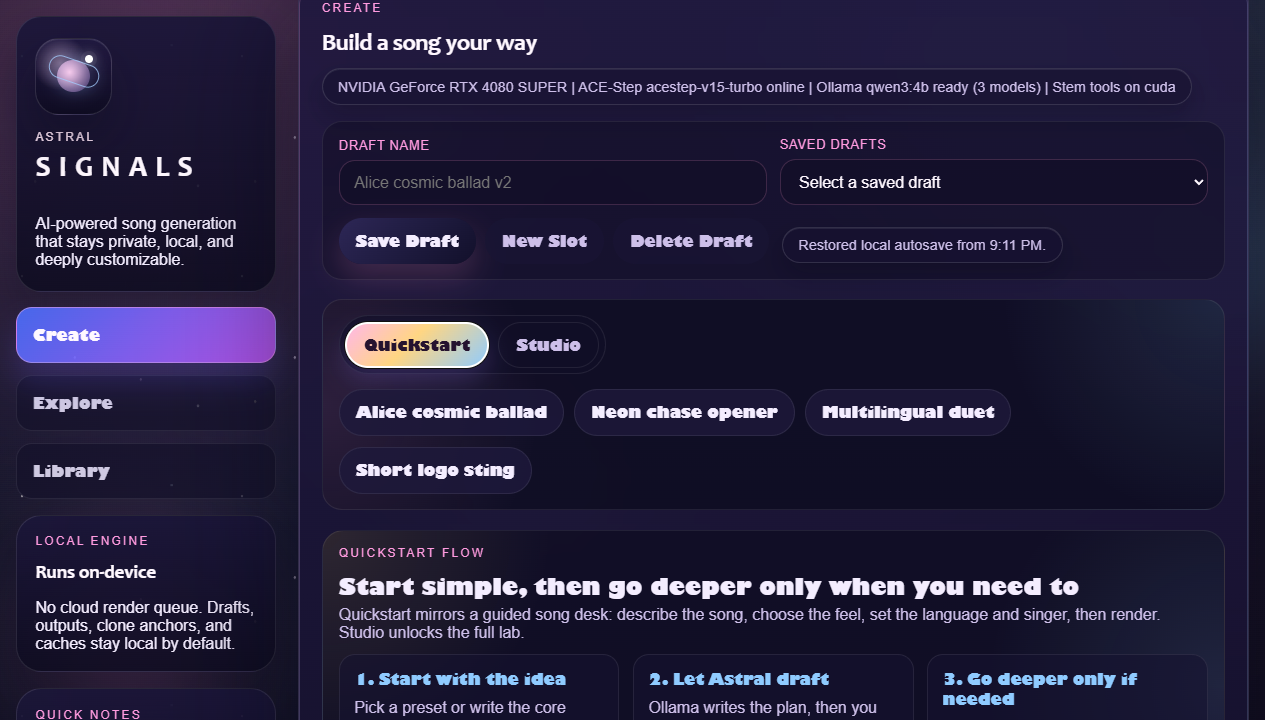
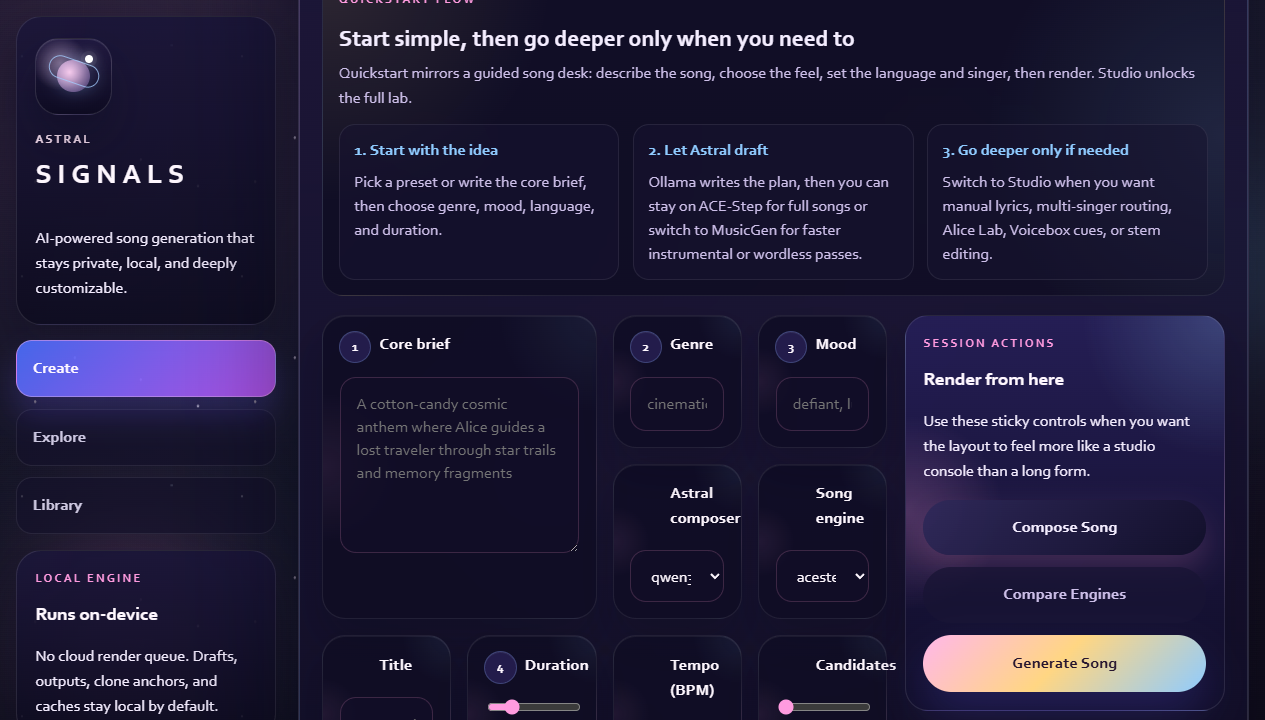
Polish typography and clean public repo assets

diff --git a/astral_signals/static/styles.css b/astral_signals/static/styles.css
@@ -17,8 +17,9 @@
   --gold: #ffd67d;
   --danger: #ff86b1;
   --shadow: 0 32px 120px rgba(4, 3, 18, 0.58);
-  --headline: "Candara", "Trebuchet MS", "Segoe UI Variable", sans-serif;
-  --body: "Aptos", "Gill Sans", "Segoe UI Variable", sans-serif;
+  --display: "Aptos Display", "Segoe UI Variable Display", "Corbel", "Trebuchet MS", sans-serif;
+  --headline: "Aptos", "Segoe UI Variable Text", "Corbel", "Gill Sans", sans-serif;
+  --body: "Aptos", "Segoe UI Variable Text", "Corbel", "Yu Gothic UI", sans-serif;
 }
 
 * {
@@ -31,6 +32,8 @@ body {
   min-height: 100%;
   color: var(--text);
   font-family: var(--body);
+  font-kerning: normal;
+  text-rendering: optimizeLegibility;
   color-scheme: dark;
   background:
     radial-gradient(circle at 12% 16%, rgba(255, 133, 221, 0.24), transparent 24%),
@@ -43,6 +46,9 @@ body {
 body {
   position: relative;
   overflow-x: hidden;
+  line-height: 1.56;
+  -webkit-font-smoothing: antialiased;
+  -moz-osx-font-smoothing: grayscale;
 }
 
 body::before,
@@ -240,8 +246,10 @@ body::after {
 
 .brand-card h2 {
   margin: 0;
-  font-size: 1.82rem;
-  letter-spacing: 0.28em;
+  font-family: var(--display);
+  font-size: 1.74rem;
+  font-weight: 650;
+  letter-spacing: 0.22em;
   text-transform: uppercase;
 }
 
@@ -324,8 +332,10 @@ body::after {
 }
 
 .sidebar-link span {
+  font-family: var(--headline);
   font-weight: 600;
-  letter-spacing: 0.02em;
+  font-size: 0.98rem;
+  letter-spacing: 0.01em;
 }
 
 .sidebar-link:hover,
@@ -472,9 +482,10 @@ body::after {
 .section-tag {
   margin: 0 0 0.75rem;
   color: var(--pink);
-  letter-spacing: 0.18em;
+  letter-spacing: 0.2em;
   text-transform: uppercase;
-  font-size: 0.75rem;
+  font-size: 0.73rem;
+  font-weight: 700;
 }
 
 .hero h1,
@@ -485,14 +496,18 @@ body::after {
 .voice-lab h3 {
   margin: 0;
   font-family: var(--headline);
-  font-weight: 700;
+  font-weight: 680;
   color: var(--text-strong);
-  letter-spacing: -0.02em;
+  letter-spacing: -0.025em;
 }
 
 .hero h1 {
+  font-family: var(--display);
   font-size: clamp(2.7rem, 6vw, 5.4rem);
-  line-height: 0.92;
+  font-weight: 720;
+  letter-spacing: -0.045em;
+  line-height: 0.96;
+  max-width: 10ch;
 }
 
 .hero h1 span {
@@ -502,8 +517,8 @@ body::after {
 .lede {
   max-width: 44rem;
   color: var(--muted);
-  font-size: 1.06rem;
-  line-height: 1.7;
+  font-size: 1.02rem;
+  line-height: 1.74;
   margin-top: 1rem;
 }
 
@@ -540,7 +555,8 @@ body::after {
 
 .hero-pills span {
   color: #c6ffe8;
-  font-size: 0.92rem;
+  font-size: 0.89rem;
+  font-weight: 600;
   border-color: rgba(77, 235, 174, 0.18);
   background: rgba(16, 43, 34, 0.56);
 }
@@ -604,7 +620,7 @@ body::after {
 .status,
 .autosave-pill,
 .voice-preview {
-  font-size: 0.9rem;
+  font-size: 0.88rem;
   white-space: nowrap;
 }
 
@@ -615,7 +631,8 @@ body::after {
 }
 
 .voice-preview-meta {
-  font-size: 0.86rem;
+  font-size: 0.84rem;
+  line-height: 1.5;
 }
 
 .draft-toolbar {
@@ -1035,7 +1052,8 @@ body[data-ui-mode="quick"] .quick-card-candidates strong {
 
 .field > span {
   color: var(--pink);
-  font-size: 0.84rem;
+  font-size: 0.8rem;
+  font-weight: 700;
   letter-spacing: 0.03em;
   text-transform: uppercase;
 }
@@ -1069,6 +1087,7 @@ select {
   padding: 0.9rem 1rem;
   background: var(--bg-soft);
   color: var(--text-strong);
+  line-height: 1.45;
   outline: none;
   transition: border-color 150ms ease, transform 150ms ease, background 150ms ease, box-shadow 150ms ease;
 }
@@ -1122,10 +1141,10 @@ strong {
 
 .toggle span {
   color: var(--text);
-  font-size: 0.95rem;
+  font-size: 0.93rem;
   letter-spacing: normal;
   text-transform: none;
-  line-height: 1.45;
+  line-height: 1.5;
 }
 
 #createStudio > .panel-heading {
@@ -1239,7 +1258,8 @@ strong {
   padding: 0.28rem 0.62rem;
   border-radius: 999px;
   border: 1px solid rgba(255, 255, 255, 0.14);
-  font-size: 0.77rem;
+  font-size: 0.75rem;
+  font-weight: 700;
   color: rgba(239, 243, 255, 0.9);
   background: rgba(255, 255, 255, 0.06);
 }
@@ -1359,7 +1379,9 @@ button {
   cursor: pointer;
   border-radius: 999px;
   padding: 0.95rem 1.4rem;
-  font-weight: 700;
+  font-family: var(--headline);
+  font-weight: 650;
+  letter-spacing: 0.01em;
   color: #26152f;
   background: linear-gradient(135deg, #ffb7ea 0%, #ffd683 48%, #8fcbff 100%);
   box-shadow: 0 14px 30px rgba(255, 145, 204, 0.18);
@@ -1469,13 +1491,13 @@ button:disabled {
 
 .resolved-prompt {
   color: var(--text);
-  line-height: 1.65;
+  line-height: 1.7;
   background: rgba(49, 34, 73, 0.92);
 }
 
 .lyric-body {
   white-space: pre-wrap;
-  line-height: 1.72;
+  line-height: 1.78;
 }
 
 .hidden {

diff --git a/README.md b/README.md
@@ -9,7 +9,7 @@ Astral Signals is a local-first "idea to full song" studio for Windows. It lets 
 
 ![Astral Signals UI](docs/astral-signals-ui.png)
 
-Studio screenshot: `docs/astral-signals-ui-studio-20260519.png`
+![Astral Signals Studio](docs/astral-signals-ui-studio.png)
 
 ## What Astral is for
 
@@ -136,8 +136,7 @@ bootstrap_songgeneration_backend.ps1
 bootstrap_heartmula_backend.ps1
 launch_astral_signals.ps1        Local launcher
 docs/astral-signals-ui.png       Live Quickstart screenshot
-docs/astral-signals-ui-studio-20260519.png
-docs/discord-forum-post.md       Ready-to-share forum draft
+docs/astral-signals-ui-studio.png Live Studio screenshot
 ```
 
 ## Distribution notes
@@ -152,10 +151,6 @@ If you plan to use specific engines or weights commercially, verify the upstream
 ## Contributing
 
 See [CONTRIBUTING.md](CONTRIBUTING.md).
-
-## Sharing
-
-A ready-to-post Discord forum draft is included at [docs/discord-forum-post.md](docs/discord-forum-post.md).
 
 ## License
 